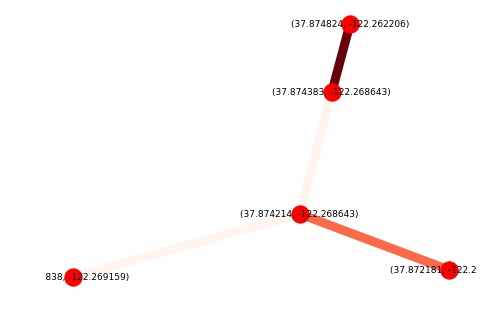
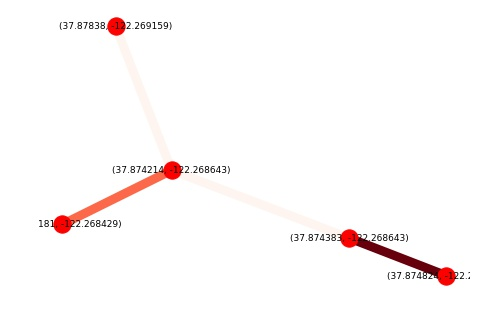
created new py file from corresponding notebook

diff --git a/GMaps_DSet_Gen.py b/GMaps_DSet_Gen.py
@@ -1,0 +1,58 @@
+# Imports
+import matplotlib.pyplot as plt
+import matplotlib.image as mpimg
+import requests
+import polyline
+import numpy as np
+import networkx as nx
+import webbrowser
+import urllib.request
+from PIL import Image
+
+# Google Maps Account Key
+API_KEY = "AIzaSyBlPHAYsu_KjwqrZj3LK_3RdCw4aDLdSPI"
+
+# this is just for testing my implementation (ML_output here is dummy test input)
+ML_output = [[(37.874824, -122.262206),(37.874383, -122.268643), 3],[(37.874383, -122.268643),(37.874214, -122.268643), 1],[(37.874214, -122.268643),(37.872181, -122.268429), 2],[(37.874214, -122.268643),(37.878380, -122.269159), 1]]
+
+def create_map_and_graph(ML_output):
+    G = nx.Graph()
+    for i in np.arange(len(ML_output)):
+        G.add_edge(ML_output[i][0], ML_output[i][1], weight=ML_output[i][2])
+    astar_path = nx.astar_path(G, ML_output[0][0], ML_output[len(ML_output)-1][1], weight='weight')
+    
+    original_path = ""
+    for i in np.arange(len(astar_path)):
+        original_path += str(astar_path[i][0]) + "," + str(astar_path[i][1]) + "|"
+    original_path = original_path[:-1]
+    
+    r = requests.post("https://roads.googleapis.com/v1/snapToRoads?path=" + original_path + "&interpolate=true&key=" + API_KEY)
+    text = r.text.replace('latitude', 'x').replace('longitude', 'y')
+    x_values = []
+    y_values = []
+    text_len = len(text)
+    for i in np.arange(text_len):
+        if text[i-1] == '"' and text[i] == 'x' and i+4 < text_len and i+4+text[i+4:].index(',') < text_len:
+            x_values += [text[i+4 : i+4+text[i+4:].index(',')]]
+        elif text[i-1] == '"' and text[i] == 'y' and i+4 < text_len and i+4+text[i+4:].index('\n') < text_len:
+            y_values += [text[i+4 : i+4+text[i+4:].index('\n')]]
+
+    x_y_pairs = []
+    for i in np.arange(len(x_values)):
+        x_y_pairs.append((float(x_values[i]), float(y_values[i])))
+
+    path="path=color:0x0000ff|weight:5"
+    for i in np.arange(len(x_y_pairs)):
+        path += "|" + str(x_y_pairs[i][0]) + "," + str(x_y_pairs[i][1])
+
+    print("https://maps.googleapis.com/maps/api/staticmap?size=800x800&zoom=15&" + path + "&key=" + API_KEY)
+
+    urllib.request.urlretrieve("https://maps.googleapis.com/maps/api/staticmap?size=800x800&zoom=15&" + path + "&key=" + API_KEY, "map.jpg")
+    nx.draw(G, with_labels=True, edge_color=list(nx.get_edge_attributes(G,'weight').values()), width=9.0, edge_cmap=plt.cm.Reds, font_size=9, labels=dict([[node,node] for node in list(G.nodes)]))
+    plt.savefig('graph.jpg', bbox_inches='tight')
+    image1 = Image.open("graph.jpg")
+    image1.show()
+    image2 = Image.open("map.jpg")
+    image2.show()
+
+create_map_and_graph(ML_output)
